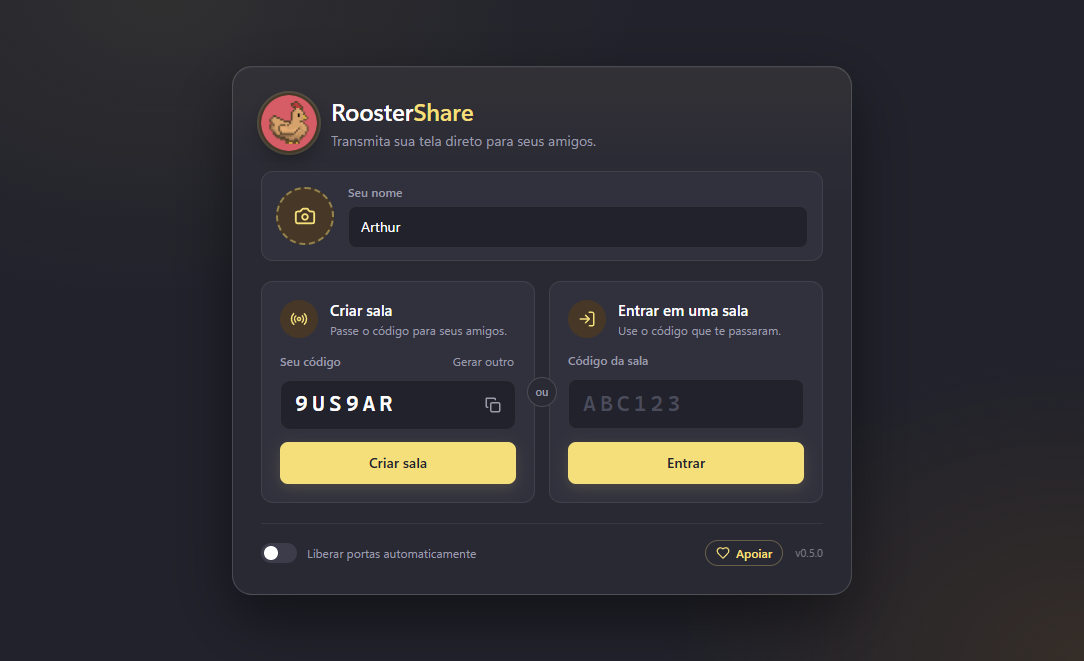
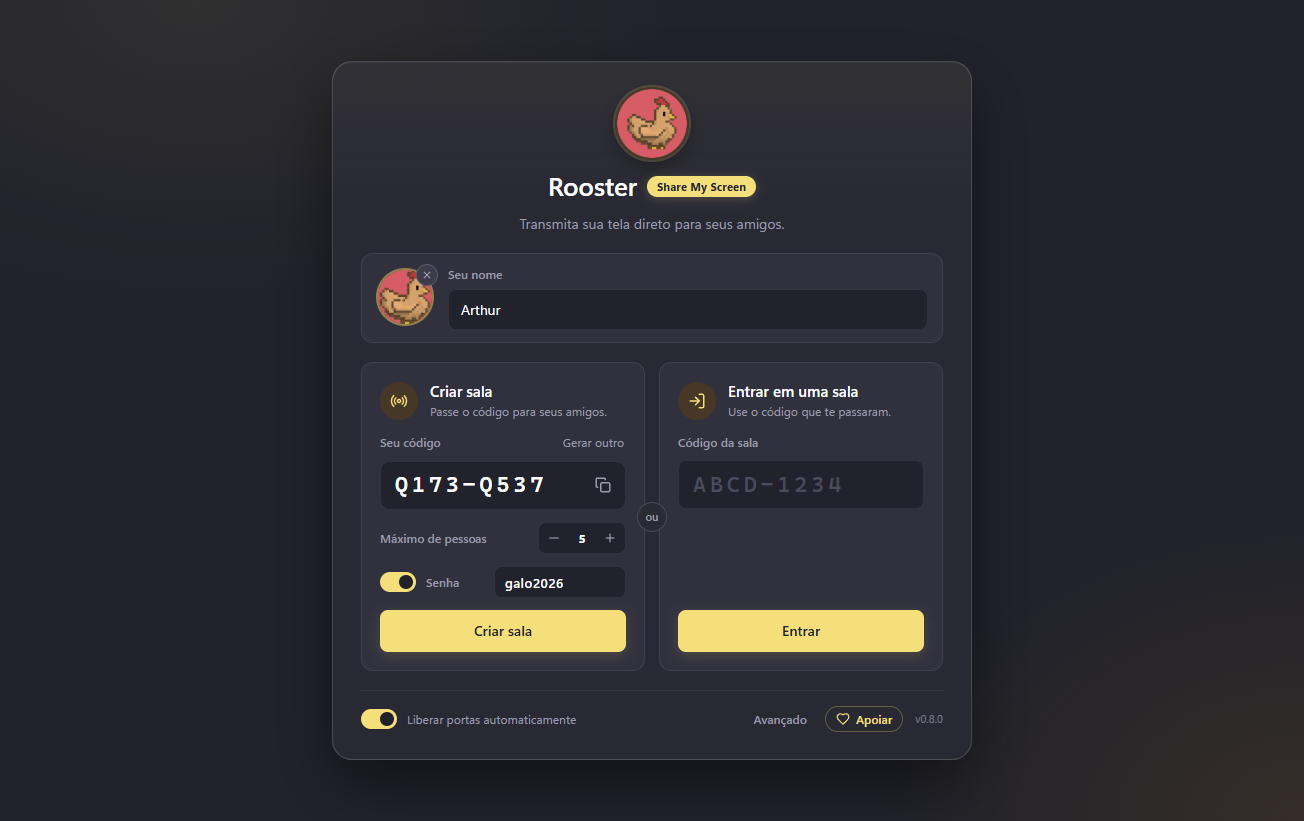
README e prints da v0.8.0

diff --git a/README.md b/README.md
@@ -14,7 +14,7 @@
 </p>
 
 <p align="center">
-  <img src="docs/room.png" width="820" alt="Sala do Rooster com cinco participantes" />
+  <img src="docs/room.png" width="820" alt="Sala do Rooster: anfitrião transmitindo, com o menu de opções de um participante aberto" />
 </p>
 
 ## Por que o Rooster?
@@ -23,6 +23,10 @@
 - 🔊 **Com o som do PC, sem eco.** O app transmite o som dos jogos, vídeos e músicas, mas deixa de fora o Discord. Seus amigos não ouvem a própria voz de volta.
 - 👀 **Todo mundo pode transmitir ao mesmo tempo.** Assista a várias telas lado a lado, fixe uma em destaque ou coloque em tela cheia.
 - 🔒 **Direto entre vocês.** O vídeo vai de um PC para o outro, sem passar por servidores de terceiros.
+- 🔑 **Sala com senha, se quiser.** Defina uma senha ao criar a sala; o anfitrião também pode remover quem não deveria estar lá.
+- ⚡ **Leve para quem transmite.** O vídeo é codificado pela placa de vídeo quando possível, gastando pouca CPU.
+- 🔑 **Sala com senha, se quiser.** Defina uma senha ao criar a sala; o anfitrião também pode remover quem não deveria estar lá.
+- ⚡ **Leve para quem transmite.** O vídeo é codificado pela placa de vídeo quando possível, gastando pouca CPU.
 - 🎟 **Sem conta e sem cadastro.** Escolha um nome e uma foto, passe o código da sala e pronto.
 - 🔄 **Sempre atualizado.** Quando sai uma versão nova, um clique atualiza e reinicia o app.
 
@@ -32,12 +36,21 @@
 
 1. **Baixe e instale** o Rooster.
 2. **Escolha seu nome** e, se quiser, uma foto.
-3. **Crie uma sala** e mande o código para seus amigos, ou **entre** com o código de alguém.
+3. **Crie uma sala** (com senha, se quiser) e mande o código para seus amigos, ou **entre** com o código de alguém.
 4. Clique em **Compartilhar tela** para transmitir, ou em **Assistir** para ver a tela de um amigo.
 
-Cada sala comporta até **5 pessoas**.
+Cada sala comporta até **5 pessoas** (o anfitrião pode ajustar de 2 a 10).
 
 <br clear="right" />
+
+<p align="center">
+  <img src="docs/password.png" width="400" alt="Pedido de senha ao entrar numa sala protegida" />
+  <img src="docs/room-guest.png" width="400" alt="Sala vista por um convidado, com as opções da transmissão" />
+</p>
+
+- O botão **⋯** ao lado de cada participante abre as opções: assistir, fixar, ocultar e, para o anfitrião, **remover da sala**.
+- Em cada transmissão você vê quantas pessoas estão assistindo e um aviso quando quem transmite desligou o som.
+- Quem está em outra rede (ou no 4G) consegue entrar mesmo assim: quem tiver as portas liberadas serve de ponte para os demais.
 
 ## Download
 
@@ -54,7 +67,9 @@ Na [página da última versão](https://github.com/muryarth/rooster-screen-share
 
 ## Dicas
 
-- **Amigo de outra cidade ou no 4G não conecta?** Na tela inicial, ligue **Liberar portas automaticamente**. O app abre as portas necessárias só enquanto você estiver numa sala.
+- **Amigo de outra cidade ou no 4G não conecta?** Na tela inicial, ligue **Liberar portas automaticamente**. O app abre as portas necessárias só enquanto você estiver numa sala. Basta que uma pessoa da sala consiga liberar as portas para todo mundo se conectar.
+- **Todos precisam estar na mesma versão** do app. Se alguém não conseguir entrar, peça para atualizar.
+- **Todos precisam estar na mesma versão** do app. Se alguém não conseguir entrar, peça para atualizar.
 - **Se quem criou a sala sair**, ela passa para outra pessoa e todo mundo continua conectado.
 - **`Ctrl +` e `Ctrl -`** aumentam ou diminuem o tamanho da interface.
 
